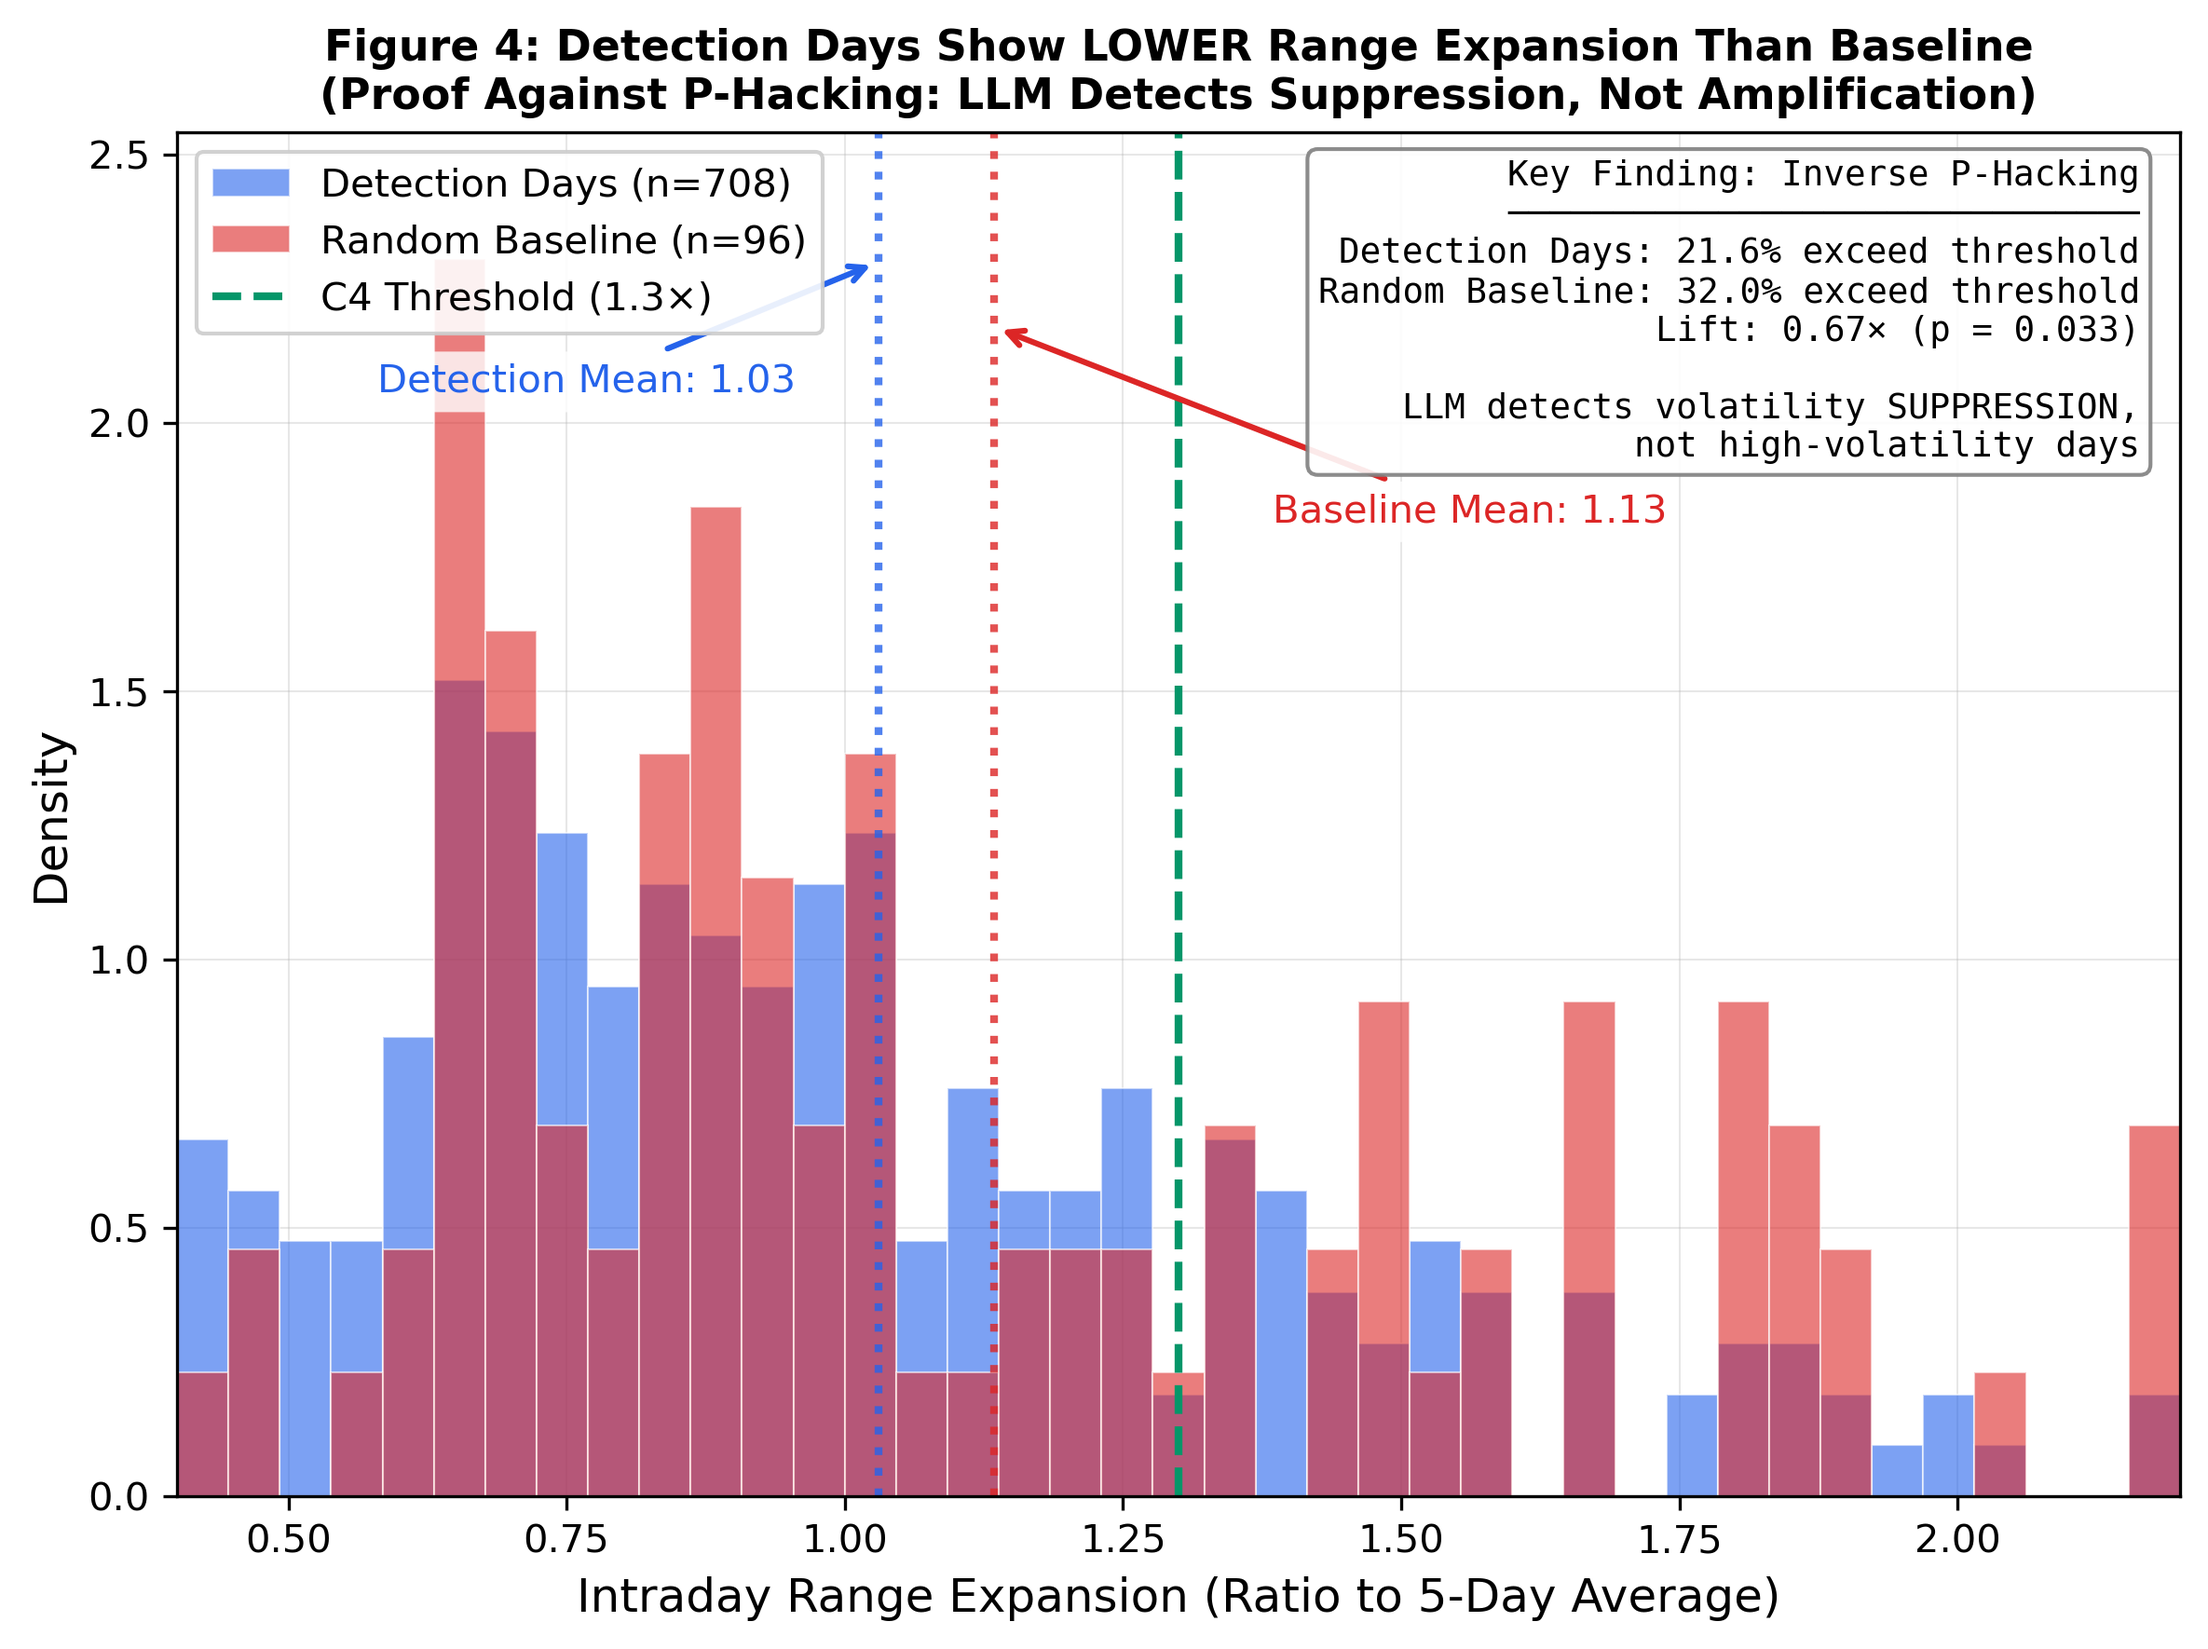
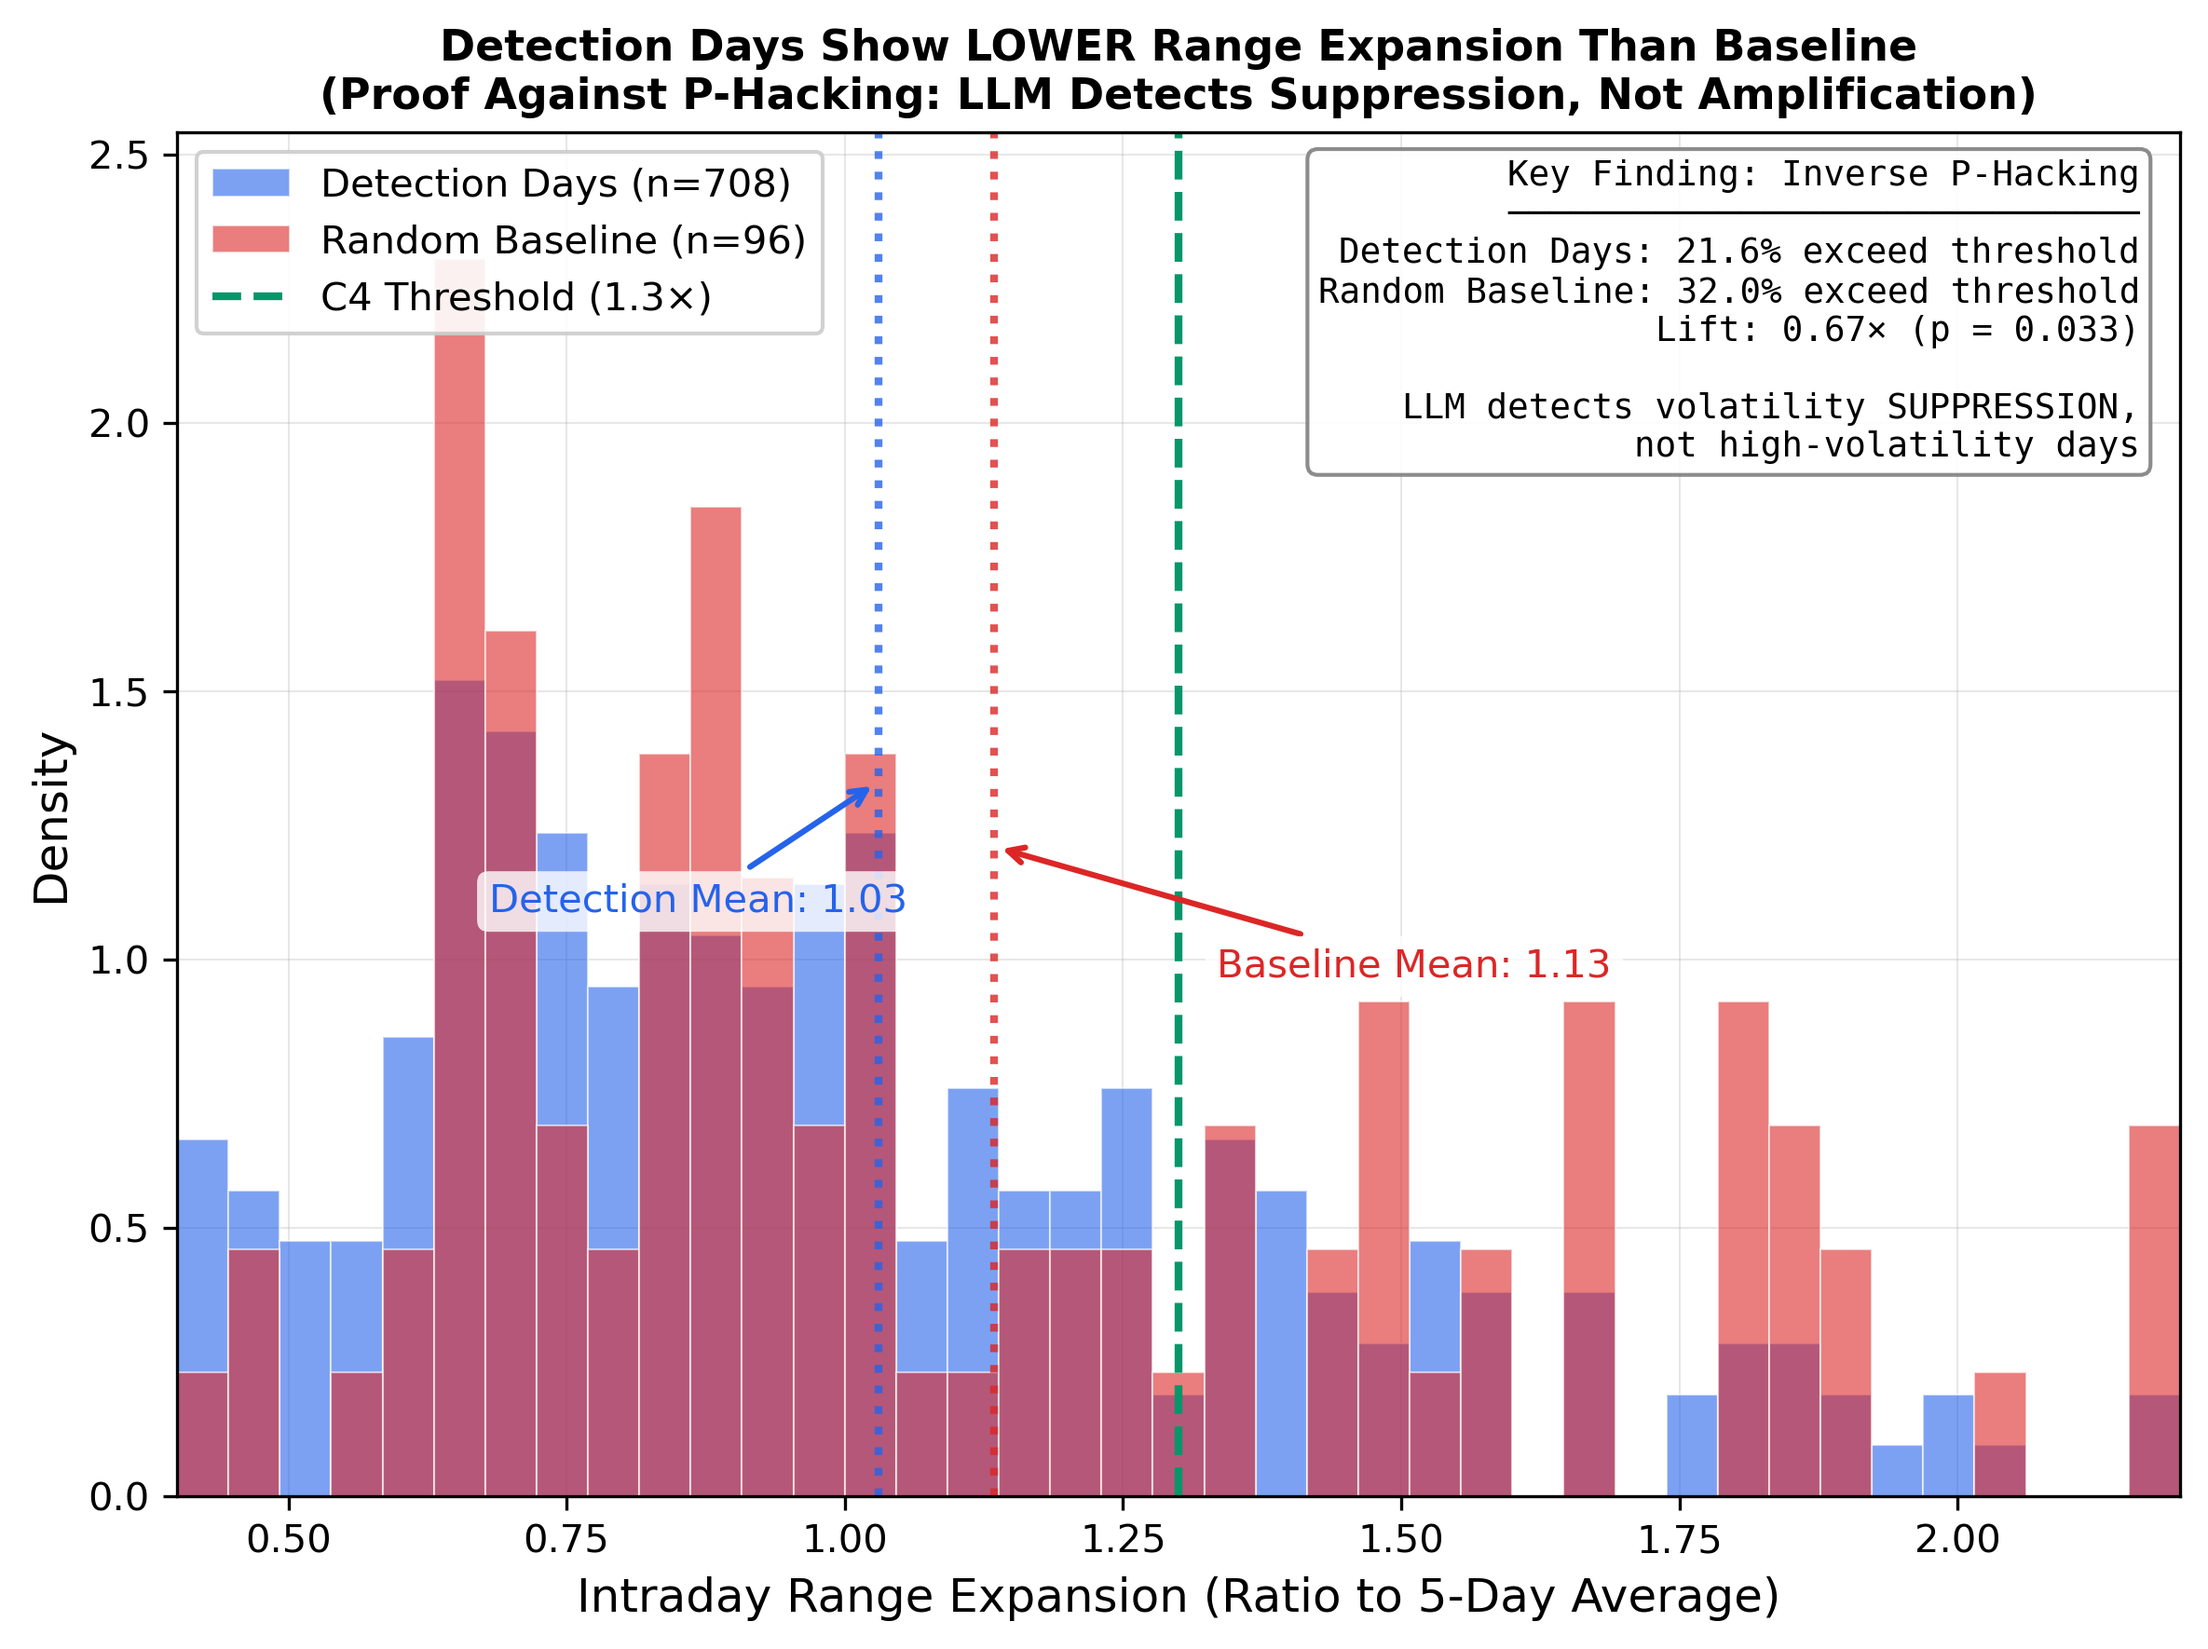
fix: Remove figure number from title and reposition mean annotations in fig12

diff --git a/scripts/figures/paper1/fig12_inverse_phacking.py b/scripts/figures/paper1/fig12_inverse_phacking.py
@@ -157,11 +157,11 @@ def create_figure_4():
     ax.axvline(x=det_mean, color="#2563eb", linestyle=":", linewidth=2, alpha=0.8)
     ax.axvline(x=base_mean, color="#dc2626", linestyle=":", linewidth=2, alpha=0.8)
 
-    # Annotations - positioned to avoid collision with vertical lines
+    # Annotations - positioned lower to avoid collision with legend and key finding box
     ax.annotate(
         f"Detection Mean: {det_mean:.2f}",
-        xy=(det_mean, ax.get_ylim()[1] * 0.95),
-        xytext=(det_mean - 0.45, ax.get_ylim()[1] * 0.85),  # Moved further left
+        xy=(det_mean, ax.get_ylim()[1] * 0.55),
+        xytext=(det_mean - 0.35, ax.get_ylim()[1] * 0.45),
         fontsize=10,
         color="#2563eb",
         arrowprops=dict(arrowstyle="->", color="#2563eb", lw=1.5),
@@ -170,8 +170,8 @@ def create_figure_4():
 
     ax.annotate(
         f"Baseline Mean: {base_mean:.2f}",
-        xy=(base_mean, ax.get_ylim()[1] * 0.9),
-        xytext=(base_mean + 0.25, ax.get_ylim()[1] * 0.75),  # Moved further right
+        xy=(base_mean, ax.get_ylim()[1] * 0.50),
+        xytext=(base_mean + 0.20, ax.get_ylim()[1] * 0.40),
         fontsize=10,
         color="#dc2626",
         arrowprops=dict(arrowstyle="->", color="#dc2626", lw=1.5),
@@ -208,7 +208,7 @@ def create_figure_4():
     ax.set_xlabel("Intraday Range Expansion (Ratio to 5-Day Average)", fontsize=12)
     ax.set_ylabel("Density", fontsize=12)
     ax.set_title(
-        "Figure 4: Detection Days Show LOWER Range Expansion Than Baseline\n"
+        "Detection Days Show LOWER Range Expansion Than Baseline\n"
         "(Proof Against P-Hacking: LLM Detects Suppression, Not Amplification)",
         fontsize=11,
         fontweight="bold",
